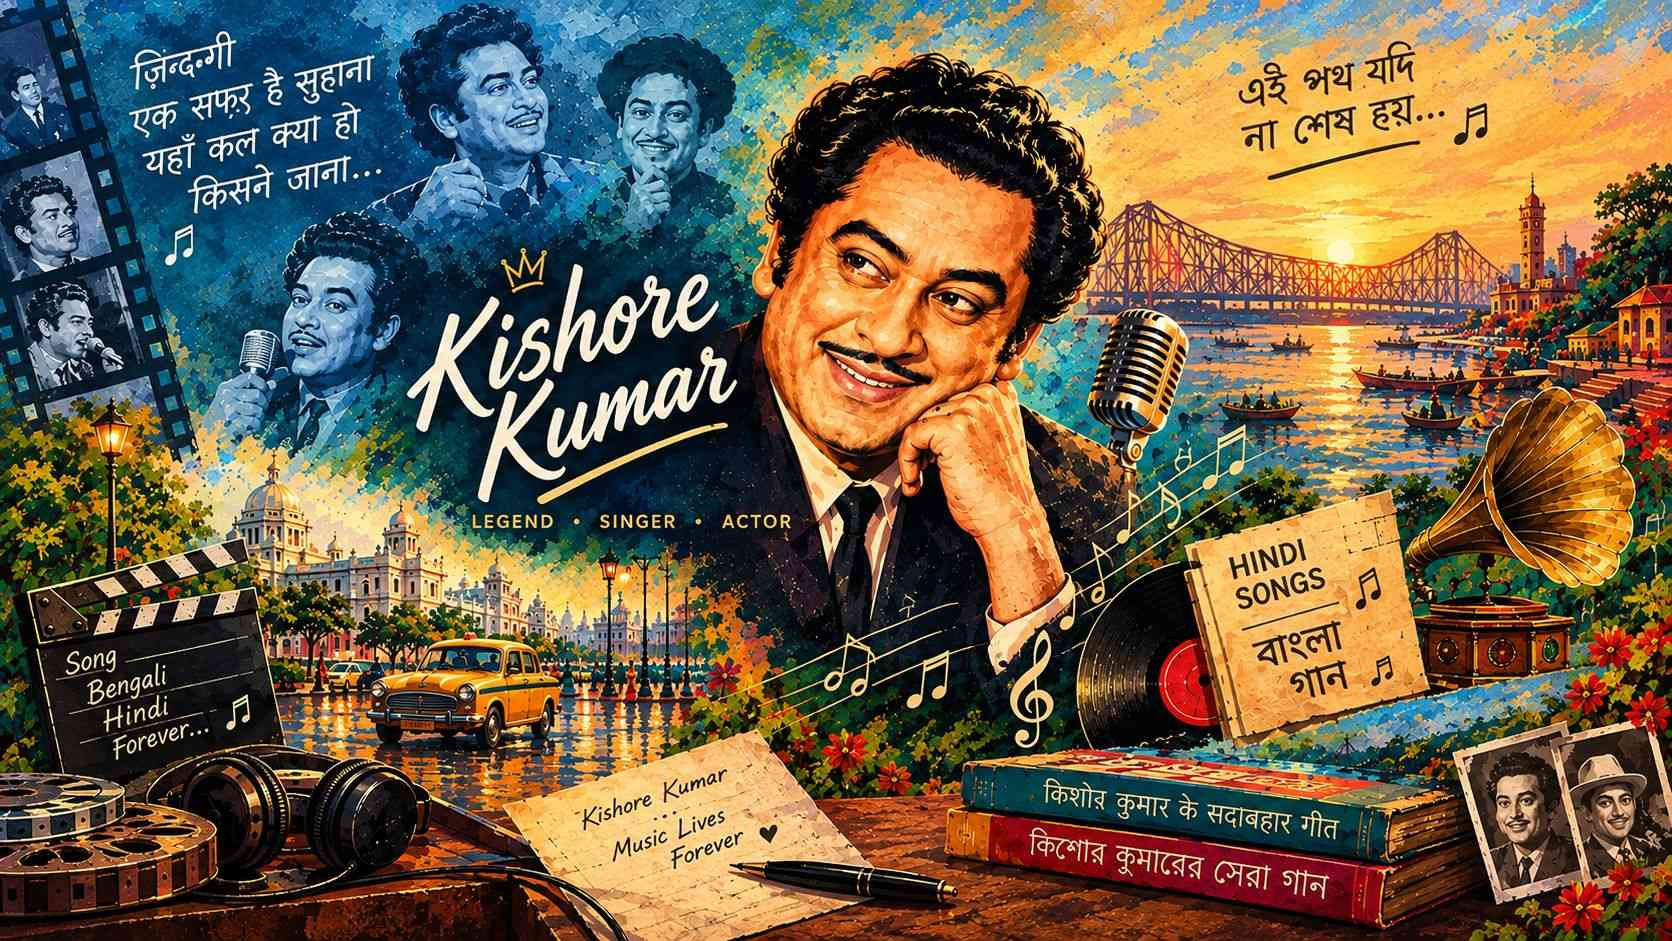
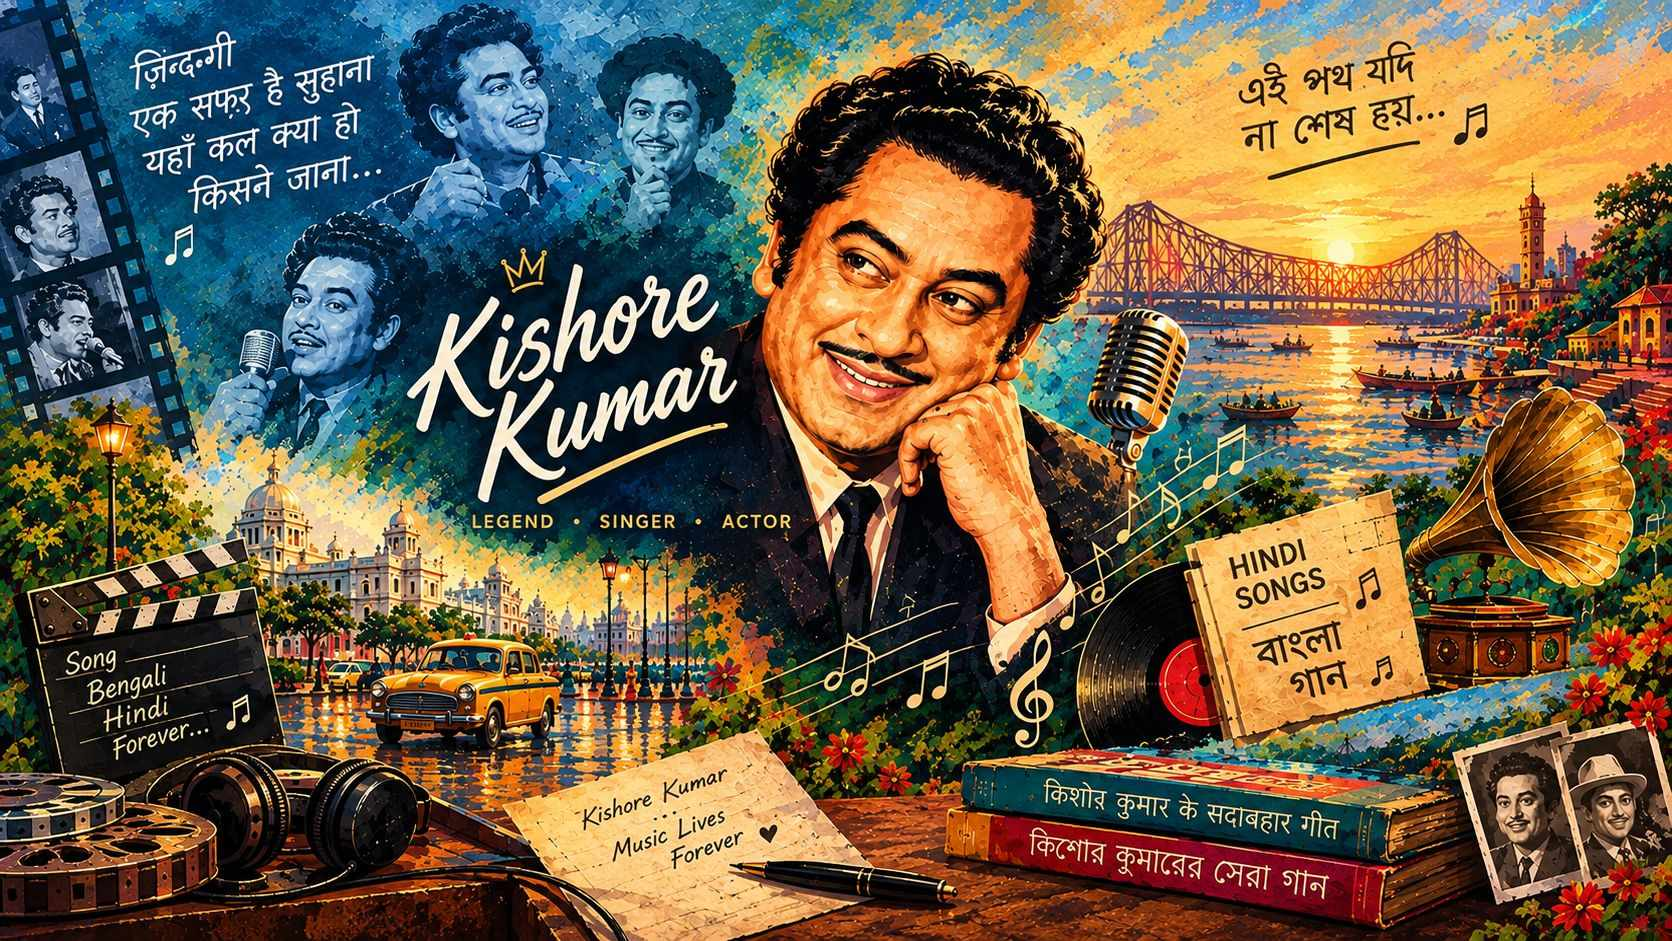
first commit

diff --git a/README.md b/README.md
@@ -45,7 +45,7 @@ KISHOREVERSE is a lightweight, browser-based music player inspired by the visual
 
 ## 🎵 Playlists
 
-The project is preconfigured to play the Hindi playlist:
+This is an preconfigured to play the Hindi and Bengali playlist:
 
 **Kishore Kumar — Hindi & Bengali Songs**
 
@@ -246,7 +246,7 @@ The playlist link and embedded media remain hosted by YouTube. KISHOREVERSE does
 
 **KISHOREVERSE** is a fan-made music UI concept celebrating the legacy of **Kishore Kumar** and the timeless Hindi and Bengali music associated with his work.
 
-Built as a static web project with ❤, 🎶 and a little vintage cinema magic.
+Built as a static web project with ❤, 🎶 and a little vintage cinema magic of Kishore Kumar.
 
 ---
 
